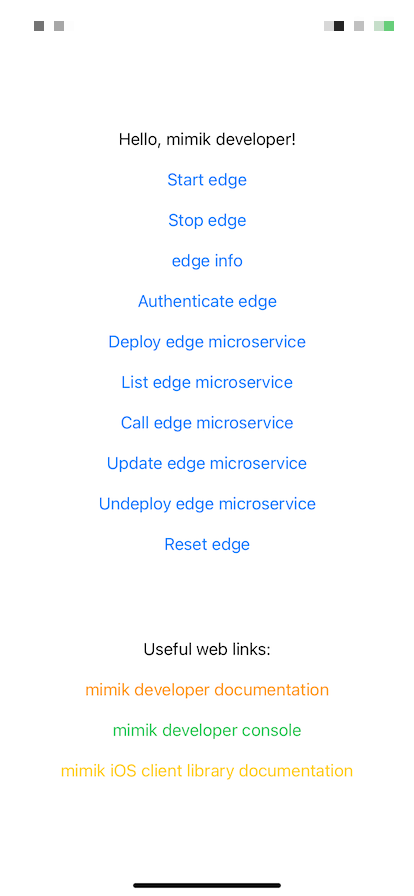
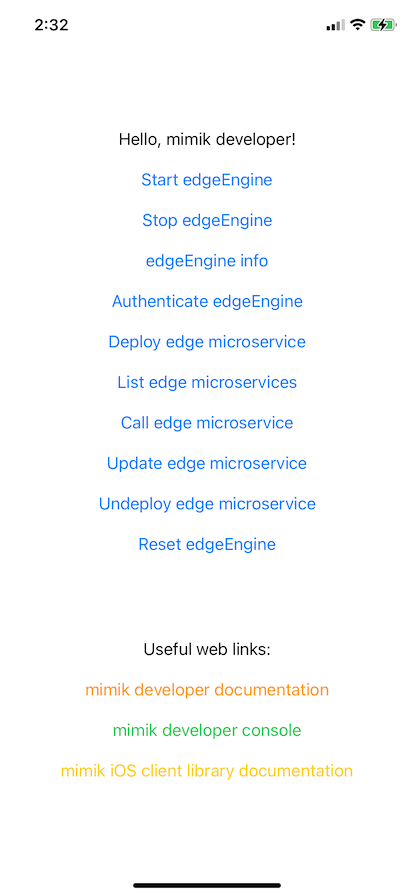
Updated branding
Updated branding

diff --git a/example/ContentView.swift b/example/ContentView.swift
@@ -29,7 +29,7 @@ struct ContentView: View {
         return EdgeClient()
     }()
     
-    let accessToken = "{YOUR-EDGE-ENGINGE-ACCESS-TOKEN}"
+    let accessToken = "{YOUR-EDGE-ENGINE-ACCESS-TOKEN}"
     
     let devIdToken = "{YOUR-DEVELOPER-ID-TOKEN-FROM-https://console.mimik.com}"
     
@@ -40,20 +40,20 @@ struct ContentView: View {
             Spacer()
             Text("Hello, mimik developer!")
             
-            Button("Start edge") {
+            Button("Start edgeEngine") {
                 Task {
                     await startEdgeEngine()
                 }
             }
-            Button("Stop edge") {
+            Button("Stop edgeEngine") {
                 stopEdgeEngine()
             }
-            Button("edge info") {
+            Button("edgeEngine info") {
                 Task {
                     await edgeEngineInfo()
                 }
             }
-            Button("Authenticate edge") {
+            Button("Authenticate edgeEngine") {
                 Task {
                     await authenticateEdgeEngine()
                 }
@@ -63,7 +63,7 @@ struct ContentView: View {
                     await deployMicroservice(edgeEngineAccessToken: accessToken)
                 }
             }
-            Button("List edge microservice") {
+            Button("List edge microservices") {
                 Task {
                     await deployedMicroservices(edgeEngineAccessToken: accessToken)
                 }
@@ -83,7 +83,7 @@ struct ContentView: View {
                     await undeployMicroservice(edgeEngineAccessToken: accessToken)
                 }
             }
-            Button("Reset edge") {
+            Button("Reset edgeEngine") {
                 Task {
                     await resetEdgeEngine()
                 }
